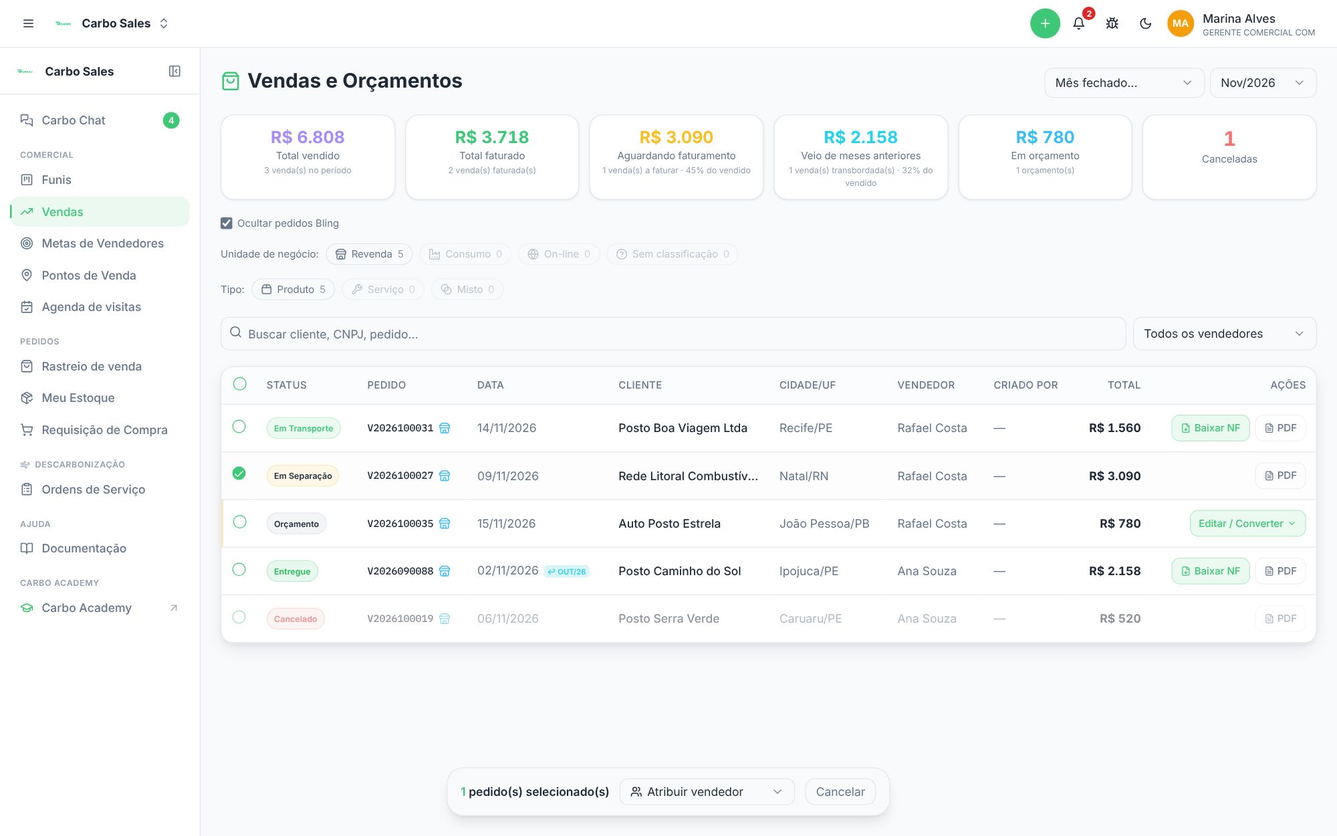
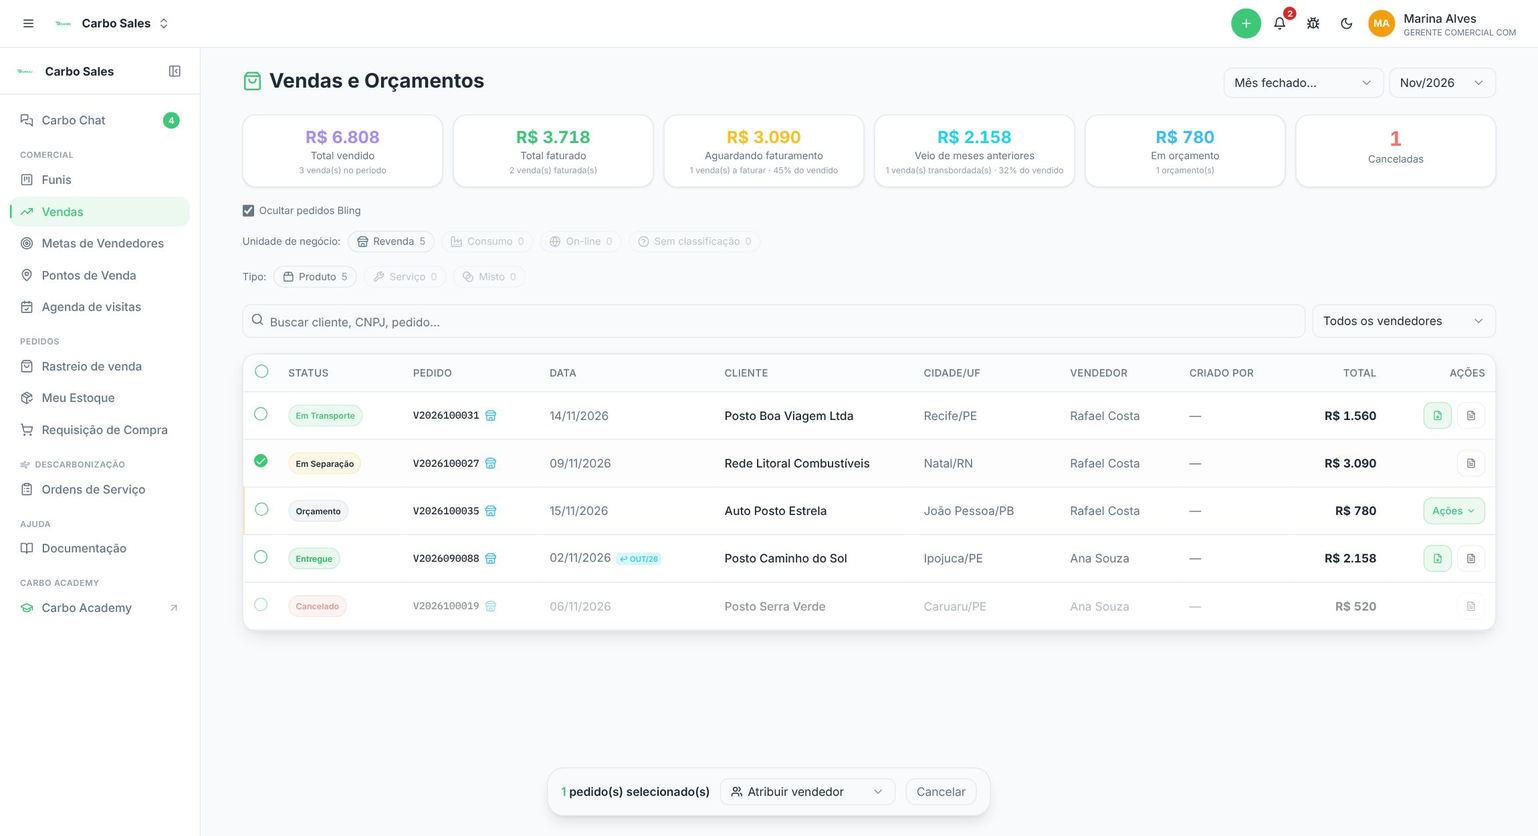
Sales no notebook: corte em 1800 px (1920 com escala 125% = 1536) (#932)
* Sales: layout de colunas separadas só a partir de 1800 px

Notebook de 1920 com escala de 125% (padrão do Windows) mede 1536 px no
navegador e caía no layout largo (2xl) — a tabela seguia rolando de lado.

Claude-Session: https://claude.ai/code/session_014dECjKfnWPqtYYc6bX6aZY

* Documentação do Sales: prints no layout do notebook

Claude-Session: https://claude.ai/code/session_014dECjKfnWPqtYYc6bX6aZY

---------

diff --git a/apps/crm/src/pages/Vendas.tsx b/apps/crm/src/pages/Vendas.tsx
@@ -712,7 +712,7 @@ export default function Vendas() {
                                 <DropdownMenu>
                                   <DropdownMenuTrigger asChild>
                                     <button className="h-8 px-2.5 inline-flex items-center gap-1 rounded-md text-xs font-medium whitespace-nowrap bg-carbo-green/10 text-carbo-green hover:bg-carbo-green/20 border border-carbo-green/30 transition-colors" title="Editar ou converter o orçamento">
-                                      <span className="hidden 2xl:inline">Editar / Converter</span><span className="2xl:hidden" data-curto>Ações</span>
+                                      <span className="hidden min-[2100px]:inline">Editar / Converter</span><span className="min-[2100px]:hidden" data-curto>Ações</span>
                                       <ChevronDown className="h-3 w-3" />
                                     </button>
                                   </DropdownMenuTrigger>
@@ -743,7 +743,7 @@ export default function Vendas() {
                                       title={`Baixar NF ${notaDaVenda(venda, "venda").numero ?? notaDaVenda(venda, "venda").id}`}
                                     >
                                       {nfLoadingId === venda.id + "venda" ? <Loader2 className="h-3 w-3 animate-spin" /> : <FileDown className="h-3 w-3" />}
-                                      <span className="hidden 2xl:inline">Baixar NF</span>
+                                      <span className="hidden min-[2100px]:inline">Baixar NF</span>
                                     </button>
                                   )}
                                   {/* ⚠ Botão PRÓPRIO, âmbar, e não um segundo "Baixar NF".
@@ -758,12 +758,12 @@ export default function Vendas() {
                                       title={`Baixar NF de bonificação ${notaDaVenda(venda, "bonificacao").numero ?? notaDaVenda(venda, "bonificacao").id}`}
                                     >
                                       {nfLoadingId === venda.id + "bonificacao" ? <Loader2 className="h-3 w-3 animate-spin" /> : <Gift className="h-3 w-3" />}
-                                      <span className="hidden 2xl:inline">NF bonif.</span>
+                                      <span className="hidden min-[2100px]:inline">NF bonif.</span>
                                     </button>
                                   )}
                                   <button onClick={() => baixarPdf(venda.id)} title="Baixar orçamento (PDF)"
                                     className="h-8 px-2.5 inline-flex items-center gap-1 rounded-md text-xs font-medium whitespace-nowrap border border-border/60 text-muted-foreground hover:bg-muted transition-colors">
-                                    <FileText className="h-3 w-3" /><span className="hidden 2xl:inline">PDF</span>
+                                    <FileText className="h-3 w-3" /><span className="hidden min-[2100px]:inline">PDF</span>
                                   </button>
                                 </>
                               )}
@@ -1292,7 +1292,7 @@ export default function Vendas() {
           </div>
           <CarboCard padding="none" className="hidden md:block">
             <div className="overflow-x-auto">
-              <table className="w-full min-w-[820px] 2xl:min-w-[960px] text-sm">
+              <table className="w-full min-w-[820px] min-[1800px]:min-w-[960px] text-sm">
                 <thead>
                   <tr className="border-b bg-muted/30">
                     {isHead && (
@@ -1306,14 +1306,14 @@ export default function Vendas() {
                     <th className="text-left p-3 font-medium text-xs text-muted-foreground uppercase tracking-wide">Pedido</th>
                     <th className="text-left p-3 font-medium text-xs text-muted-foreground uppercase tracking-wide">Data</th>
                     <th className="text-left p-3 font-medium text-xs text-muted-foreground uppercase tracking-wide">Cliente</th>
-                    <th className="hidden 2xl:table-cell text-left p-3 font-medium text-xs text-muted-foreground uppercase tracking-wide">Cidade/UF</th>
+                    <th className="hidden min-[1800px]:table-cell text-left p-3 font-medium text-xs text-muted-foreground uppercase tracking-wide">Cidade/UF</th>
                     {/* ⚠ "Vendedor" e "Criado por" são perguntas DIFERENTES e
                         andam juntas: a primeira é de quem é a venda (e a
                         comissão), a segunda é quem digitou. Elas coincidem na
                         maioria das linhas — e é justamente por isso que a
                         divergência precisa aparecer, em vez de ser presumida. */}
                     {isHead && <th className="text-left p-3 font-medium text-xs text-muted-foreground uppercase tracking-wide">Vendedor</th>}
-                    {isHead && <th className="hidden 2xl:table-cell text-left p-3 font-medium text-xs text-muted-foreground uppercase tracking-wide whitespace-nowrap">Criado por</th>}
+                    {isHead && <th className="hidden min-[1800px]:table-cell text-left p-3 font-medium text-xs text-muted-foreground uppercase tracking-wide whitespace-nowrap">Criado por</th>}
                     <th className="text-right p-3 font-medium text-xs text-muted-foreground uppercase tracking-wide">Total</th>
                     <th className="text-right p-3 font-medium text-xs text-muted-foreground uppercase tracking-wide whitespace-nowrap">Ações</th>
                   </tr>
@@ -1393,26 +1393,26 @@ export default function Vendas() {
                               )
                             )}
                           </td>
-                          {/* Abaixo de 2xl (notebook com a barra lateral aberta) a cidade
+                          {/* Abaixo de 1800 px (notebook, inclusive 1920 com escala de 125% = 1536) a cidade
                               mora embaixo do cliente e "Criado por" embaixo do vendedor:
                               com as colunas separadas a tabela não cabia e cortava o Total. */}
                           <td className="p-3 max-w-[180px]">
                             <div className="font-medium truncate">{venda.customer_name}</div>
-                            <div className="2xl:hidden text-xs text-muted-foreground truncate">{[venda.delivery_city, venda.delivery_state].filter(Boolean).join("/") || "—"}</div>
+                            <div className="min-[1800px]:hidden text-xs text-muted-foreground truncate">{[venda.delivery_city, venda.delivery_state].filter(Boolean).join("/") || "—"}</div>
                           </td>
-                          <td className="hidden 2xl:table-cell p-3 text-muted-foreground whitespace-nowrap">{[venda.delivery_city, venda.delivery_state].filter(Boolean).join("/") || "—"}</td>
+                          <td className="hidden min-[1800px]:table-cell p-3 text-muted-foreground max-w-[170px] truncate">{[venda.delivery_city, venda.delivery_state].filter(Boolean).join("/") || "—"}</td>
                           {isHead && (
                             <td className="p-3 text-muted-foreground">
                               <span>{(venda.vendedor_id && nomeById[venda.vendedor_id]) || venda.vendedor_name || "—"}</span>
                               {criadorDiferente && (
-                                <div className="2xl:hidden text-xs font-medium text-amber-500" title="Lançada por uma pessoa e atribuída a outra">
+                                <div className="min-[1800px]:hidden text-xs font-medium text-amber-500" title="Lançada por uma pessoa e atribuída a outra">
                                   por {criadorNome}
                                 </div>
                               )}
                             </td>
                           )}
                           {isHead && (
-                            <td className="hidden 2xl:table-cell p-3 text-muted-foreground">
+                            <td className="hidden min-[1800px]:table-cell p-3 text-muted-foreground">
                               {criadorNome ? (
                                 <span className={criadorDiferente ? "font-medium text-amber-500" : undefined}
                                   title={criadorDiferente

diff --git a/apps/crm/src/pages/Pdvs.tsx b/apps/crm/src/pages/Pdvs.tsx
@@ -139,12 +139,13 @@ function SortTh({ col, label, sort, onSort, align = "left", className = "" }: {
   );
 }
 
-/** Coluna que só existe na tela larga (2xl). No notebook, com a barra lateral
+/** Coluna que só existe na tela larga (≥ 1800 px; 1920 com escala de 125%
+ *  do Windows é 1536 e NÃO é larga). No notebook, com a barra lateral
  *  aberta, as onze colunas não cabiam e Comprado/Ações ficavam fora da tela:
  *  o código e o CNPJ descem para baixo do nome, o status vira etiqueta ao lado
  *  dele (só quando não é Ativo) e pedidos/última compra descem para baixo do
  *  valor comprado. */
-const SO_LARGA = "hidden 2xl:table-cell";
+const SO_LARGA = "hidden min-[1800px]:table-cell";
 
 /** Quantos produtos o PDV declara vender — é por isso que se ordena o Mix. */
 const mixVendidos = (p: PdvRow) => PRODUTOS.filter((k) => p.mix?.[k]?.oferece === "sim").length;
@@ -463,12 +464,12 @@ export default function Pdvs() {
                               Microdistribuidor
                             </span>
                           )}
-                          <span className="2xl:hidden block truncate font-mono text-[11px] text-muted-foreground">
+                          <span className="min-[1800px]:hidden block truncate font-mono text-[11px] text-muted-foreground">
                             {p.pdv_code}{" · "}
                             {p.sem_documento ? <span className="text-amber-500">sem documento</span> : fmtDoc(p.cnpj)}
                           </span>
                           {p.status !== "active" && (
-                            <span className="2xl:hidden mt-0.5 inline-block">
+                            <span className="min-[1800px]:hidden mt-0.5 inline-block">
                               <CarboBadge variant={PDV_STATUS_VARIANT[p.status]} size="sm">{PDV_STATUS_LABEL[p.status]}</CarboBadge>
                             </span>
                           )}
@@ -483,7 +484,7 @@ export default function Pdvs() {
                           `title`: endereço completo tem 60+ caracteres e, solto
                           numa célula, empurraria Mix e Comprado para fora da
                           tela — que é o oposto de mostrar mais informação. */}
-                      <td className="px-3 py-2 text-xs max-w-[180px] 2xl:max-w-[220px]">
+                      <td className="px-3 py-2 text-xs max-w-[180px] min-[1800px]:max-w-[220px]">
                         <p className="truncate" title={[p.address_city, p.address_state].filter(Boolean).join("/") || undefined}>
                           {[p.address_city, p.address_state].filter(Boolean).join("/") || "—"}
                         </p>
@@ -509,7 +510,7 @@ export default function Pdvs() {
                       <td className="px-3 py-2 text-right tabular-nums font-medium whitespace-nowrap">
                         {p.total_comprado ? brl(p.total_comprado) : "—"}
                         {p.pedidos > 0 && (
-                          <span className="2xl:hidden block text-[11px] font-normal text-muted-foreground">
+                          <span className="min-[1800px]:hidden block text-[11px] font-normal text-muted-foreground">
                             {p.pedidos} {p.pedidos === 1 ? "pedido" : "pedidos"} · {fmtData(p.ultima_compra)}
                           </span>
                         )}

diff --git a/apps/crm/src/components/os/OSLista.tsx b/apps/crm/src/components/os/OSLista.tsx
@@ -49,7 +49,7 @@ function TipoSelo({ o }: { o: OSView }) {
 function Progresso({ o, className }: { o: OSView; className?: string }) {
   const pct = o.vagas > 0 ? Math.min(100, (o.vagasExecutadas / o.vagas) * 100) : 0;
   return (
-    <div className={cn("flex flex-wrap items-center gap-x-2.5 gap-y-0.5 2xl:flex-nowrap", className)}>
+    <div className={cn("flex flex-wrap items-center gap-x-2.5 gap-y-0.5 min-[1800px]:flex-nowrap", className)}>
       <span className="w-11 shrink-0 text-sm tabular-nums">
         <span className="font-medium text-foreground">{o.vagasExecutadas}</span>
         <span className="text-muted-foreground">/{o.vagas}</span>
@@ -57,7 +57,7 @@ function Progresso({ o, className }: { o: OSView; className?: string }) {
       <div className="h-1 w-16 shrink-0 overflow-hidden rounded-full bg-muted">
         <div className={cn("h-full rounded-full", stageMeta(o.stage).bar)} style={{ width: `${pct}%` }} />
       </div>
-      {o.portes && <span className="basis-full truncate text-xs text-muted-foreground 2xl:basis-auto">{o.portes}</span>}
+      {o.portes && <span className="basis-full truncate text-xs text-muted-foreground min-[1800px]:basis-auto">{o.portes}</span>}
     </div>
   );
 }
@@ -149,10 +149,10 @@ export function OSLista({ items }: { items: OSView[] }) {
 
       {/* Tela larga */}
       <div className="hidden overflow-x-auto md:block">
-        {/* Abaixo de 2xl (notebook com a barra lateral aberta) as células
+        {/* Abaixo de 1800 px (notebook; 1920 com escala de 125% é 1536) as células
             apertam e os portes descem para baixo da barra — senão a Etapa
             ficava fora da tela. */}
-        <table className="w-full text-sm [&_td]:px-3 [&_th]:px-3 2xl:[&_td]:px-4 2xl:[&_th]:px-4">
+        <table className="w-full text-sm [&_td]:px-3 [&_th]:px-3 min-[1800px]:[&_td]:px-4 min-[1800px]:[&_th]:px-4">
           <thead className="border-b bg-muted/40">
             <tr>
               <Cabecalho rotulo="OS" ordem={ordem} onOrdenar={ordenar} />
@@ -174,7 +174,7 @@ export function OSLista({ items }: { items: OSView[] }) {
                   {o.veiculo && <p className="mt-0.5 truncate text-xs text-muted-foreground">{o.veiculo}</p>}
                 </td>
                 <td className="px-4 py-3"><TipoSelo o={o} /></td>
-                <td className="px-4 py-3"><Progresso o={o} className="min-w-[8rem] 2xl:min-w-[12rem]" /></td>
+                <td className="px-4 py-3"><Progresso o={o} className="min-w-[8rem] min-[1800px]:min-w-[12rem]" /></td>
                 <td className="px-4 py-3"><Data o={o} hoje={hoje} /></td>
                 <td className="whitespace-nowrap px-4 py-3">
                   {o.pedido

diff --git a/apps/ops/src/components/os/OSLista.tsx b/apps/ops/src/components/os/OSLista.tsx
@@ -49,7 +49,7 @@ function TipoSelo({ o }: { o: OSView }) {
 function Progresso({ o, className }: { o: OSView; className?: string }) {
   const pct = o.vagas > 0 ? Math.min(100, (o.vagasExecutadas / o.vagas) * 100) : 0;
   return (
-    <div className={cn("flex flex-wrap items-center gap-x-2.5 gap-y-0.5 2xl:flex-nowrap", className)}>
+    <div className={cn("flex flex-wrap items-center gap-x-2.5 gap-y-0.5 min-[1800px]:flex-nowrap", className)}>
       <span className="w-11 shrink-0 text-sm tabular-nums">
         <span className="font-medium text-foreground">{o.vagasExecutadas}</span>
         <span className="text-muted-foreground">/{o.vagas}</span>
@@ -57,7 +57,7 @@ function Progresso({ o, className }: { o: OSView; className?: string }) {
       <div className="h-1 w-16 shrink-0 overflow-hidden rounded-full bg-muted">
         <div className={cn("h-full rounded-full", stageMeta(o.stage).bar)} style={{ width: `${pct}%` }} />
       </div>
-      {o.portes && <span className="basis-full truncate text-xs text-muted-foreground 2xl:basis-auto">{o.portes}</span>}
+      {o.portes && <span className="basis-full truncate text-xs text-muted-foreground min-[1800px]:basis-auto">{o.portes}</span>}
     </div>
   );
 }
@@ -149,10 +149,10 @@ export function OSLista({ items }: { items: OSView[] }) {
 
       {/* Tela larga */}
       <div className="hidden overflow-x-auto md:block">
-        {/* Abaixo de 2xl (notebook com a barra lateral aberta) as células
+        {/* Abaixo de 1800 px (notebook; 1920 com escala de 125% é 1536) as células
             apertam e os portes descem para baixo da barra — senão a Etapa
             ficava fora da tela. */}
-        <table className="w-full text-sm [&_td]:px-3 [&_th]:px-3 2xl:[&_td]:px-4 2xl:[&_th]:px-4">
+        <table className="w-full text-sm [&_td]:px-3 [&_th]:px-3 min-[1800px]:[&_td]:px-4 min-[1800px]:[&_th]:px-4">
           <thead className="border-b bg-muted/40">
             <tr>
               <Cabecalho rotulo="OS" ordem={ordem} onOrdenar={ordenar} />
@@ -174,7 +174,7 @@ export function OSLista({ items }: { items: OSView[] }) {
                   {o.veiculo && <p className="mt-0.5 truncate text-xs text-muted-foreground">{o.veiculo}</p>}
                 </td>
                 <td className="px-4 py-3"><TipoSelo o={o} /></td>
-                <td className="px-4 py-3"><Progresso o={o} className="min-w-[8rem] 2xl:min-w-[12rem]" /></td>
+                <td className="px-4 py-3"><Progresso o={o} className="min-w-[8rem] min-[1800px]:min-w-[12rem]" /></td>
                 <td className="px-4 py-3"><Data o={o} hoje={hoje} /></td>
                 <td className="whitespace-nowrap px-4 py-3">
                   {o.pedido

diff --git a/apps/crm/src/docs/secoes/base.ts b/apps/crm/src/docs/secoes/base.ts
@@ -242,8 +242,8 @@ export const SECOES_BASE: Secao[] = [
           { n: 3, titulo: "Buscar", texto: "Procura pelo nome do cliente, cidade, CNPJ/CPF, IE, telefone, CEP, e-mail ou número do pedido, em todo o histórico (ignora o período)." },
           { n: 4, titulo: "Status", texto: "Orçamento, Cancelado ou a etapa do pedido (Nova Venda, Em Separação, Em Transporte, Entregue…)." },
           { n: 5, titulo: "Filtros", texto: "“Ocultar pedidos Bling” esconde os pedidos importados do Bling (o número ao lado diz quantos e quanto somam — é o que explica um total diferente de outra tela). Unidade de negócio: revenda, consumo, on-line ou sem classificação. Tipo: produto (CarboZé), serviço (CarboVAPT) ou misto." },
-          { n: 6, titulo: "Editar / Converter", texto: "Em orçamentos: editar, converter em venda ou baixar o PDF." },
-          { n: 7, titulo: "Baixar NF", texto: "Abre a nota fiscal (PDF, ou XML se o PDF ainda não chegou). “PDF” baixa a segunda via do pedido." },
+          { n: 6, titulo: "Ações (orçamento)", texto: "Em orçamentos: editar, converter em venda ou baixar o PDF. Em tela grande o botão se chama “Editar / Converter”." },
+          { n: 7, titulo: "Baixar NF", texto: "O botão verde abre a nota fiscal (PDF, ou XML se o PDF ainda não chegou); o cinza baixa a segunda via do pedido em PDF. No notebook eles aparecem só com o ícone — passe o mouse para ver o nome." },
           { n: 8, titulo: "Linha", texto: "Clique para abrir os detalhes da venda." },
         ],
       },
@@ -269,7 +269,7 @@ export const SECOES_BASE: Secao[] = [
           { n: 2, titulo: "Seleção", texto: "Marque as vendas (ou todas) para agir em massa." },
           { n: 3, titulo: "Atribuir vendedor", texto: "Troca o vendedor das vendas selecionadas de uma vez (e, com isso, de quem é a comissão)." },
           { n: 4, titulo: "Vendedor", texto: "De quem é a venda." },
-          { n: 5, titulo: "Criado por", texto: "Quem lançou, quando foi outra pessoa (ex.: o gestor lançando em nome do vendedor)." },
+          { n: 5, titulo: "Criado por", texto: "Quem lançou, quando foi outra pessoa (ex.: o gestor lançando em nome do vendedor). No notebook ele aparece embaixo do vendedor, em laranja, só quando é outra pessoa." },
         ],
       },
       {

diff --git a/apps/crm/src/docs/marcadores.ts b/apps/crm/src/docs/marcadores.ts
@@ -312,30 +312,30 @@ export const MARCADORES: Record<string, Record<number, Caixa>> = {
     1: { x: 78.13, y: 9, w: 20.38, h: 4 },
     2: { x: 16.5, y: 15.22, w: 82, h: 11.33 },
     3: { x: 16.5, y: 42.11, w: 82, h: 4.44 },
-    4: { x: 16.63, y: 48.89, w: 10.06, h: 4.5 },
+    4: { x: 16.63, y: 48.89, w: 13.21, h: 4.5 },
     5: { x: 16.5, y: 32.33, w: 82, h: 2.89 },
-    6: { x: 88.97, y: 67.44, w: 8.71, h: 3.56 },
-    7: { x: 87.65, y: 54.78, w: 5.83, h: 3.56 },
-    8: { x: 16.63, y: 59.72, w: 81.81, h: 6.33 },
+    6: { x: 93.06, y: 68.56, w: 4.63, h: 3.56 },
+    7: { x: 93.06, y: 55, w: 2.13, h: 3.56 },
+    8: { x: 16.63, y: 60.17, w: 81.81, h: 6.78 },
   },
   "vendas-detalhe": {
-    1: { x: 2.84, y: 17.16, w: 94.32, h: 10.59 },
-    2: { x: 2.84, y: 30.88, w: 46.56, h: 7.06 },
-    3: { x: 2.84, y: 41.08, w: 5.24, h: 2.94 },
-    4: { x: 2.84, y: 47.35, w: 94.32, h: 3.14 },
+    1: { x: 2.84, y: 17.8, w: 94.32, h: 10.51 },
+    2: { x: 2.84, y: 31.42, w: 46.56, h: 7 },
+    3: { x: 2.84, y: 41.54, w: 5.24, h: 2.92 },
+    4: { x: 2.84, y: 47.76, w: 94.32, h: 3.11 },
   },
   "vendas-gestor": {
-    1: { x: 84.75, y: 37.9, w: 13.75, h: 4 },
-    2: { x: 17.41, y: 45.1, w: 1, h: 1.6 },
-    3: { x: 33.4, y: 91.8, w: 33.19, h: 5.8 },
-    4: { x: 66.38, y: 43.9, w: 7.2, h: 4.45 },
-    5: { x: 73.57, y: 43.9, w: 6.76, h: 4.45 },
+    1: { x: 85.33, y: 36.4, w: 11.96, h: 4 },
+    2: { x: 16.55, y: 43.6, w: 0.87, h: 1.6 },
+    3: { x: 35.57, y: 91.8, w: 28.86, h: 5.8 },
+    4: { x: 68.93, y: 42.4, w: 7.75, h: 4.45 },
+    5: { x: 76.68, y: 42.4, w: 7.28, h: 4.45 },
   },
   "vendas-gestor-detalhe": {
-    1: { x: 2.84, y: 91.87, w: 9.55, h: 5.66 },
-    2: { x: 76.18, y: 91.87, w: 10.89, h: 5.66 },
-    3: { x: 87.37, y: 91.87, w: 9.79, h: 5.66 },
-    4: { x: 3.66, y: 79.13, w: 92.67, h: 2.83 },
+    1: { x: 2.84, y: 91.81, w: 9.55, h: 5.7 },
+    2: { x: 76.18, y: 91.81, w: 10.89, h: 5.7 },
+    3: { x: 87.37, y: 91.81, w: 9.79, h: 5.7 },
+    4: { x: 3.66, y: 78.98, w: 92.67, h: 2.85 },
   },
   "vender-endereco": {
     1: { x: 6.28, y: 21.38, w: 28.23, h: 6.43 },

diff --git a/apps/crm/src/docs/secoes/comercial.ts b/apps/crm/src/docs/secoes/comercial.ts
@@ -97,7 +97,7 @@ export const SECOES_COMERCIAL: Secao[] = [
           { n: 4, titulo: "UF", texto: "Mostra só os PDVs de um estado." },
           { n: 5, titulo: "Dono", texto: "Mostra só a carteira de um vendedor." },
           { n: 6, titulo: "Resumo", texto: "Quantos aparecem com os filtros, quantos já compraram, quantos estão sem documento e sem dono." },
-          { n: 7, titulo: "Ordenar", texto: "Clique no nome de qualquer coluna para ordenar; clique de novo para inverter. Pedidos, Comprado e Última começam do maior/mais recente." },
+          { n: 7, titulo: "Ordenar", texto: "Clique no nome de qualquer coluna para ordenar; clique de novo para inverter. Pedidos, Comprado e Última começam do maior/mais recente. No notebook, código e CNPJ aparecem embaixo do nome, e pedidos e última compra embaixo do valor comprado; as colunas separadas (e a ordenação por elas) aparecem só em tela grande." },
           { n: 8, titulo: "Sem documento", texto: "PDV sem CNPJ/CPF. As vendas dele não viram Revenda sozinhas e o histórico de pedidos não aparece. Preencha o documento." },
           { n: 9, titulo: "Mix", texto: "O que o ponto revende: 10ml (sachê), 100ml e 1L. Verde = vende, cinza = não vende, laranja = a confirmar (ninguém conferiu ainda — é onde falta visita). Passe o mouse para ver o preço." },
           { n: 10, titulo: "Microdistribuidor", texto: "Etiqueta do PDV que também é microdistribuidor. Ele continua sendo ponto de venda e contando na base." },

diff --git a/apps/crm/src/pages/Pipelines.tsx b/apps/crm/src/pages/Pipelines.tsx
@@ -564,7 +564,7 @@ export default function Pipelines() {
         ) : (
           // No notebook (xl, barra lateral aberta) o 4º cartão — Pipeline (R$) —
           // é mais largo: com os cinco iguais o valor em reais quebrava em duas linhas.
-          <div className={`${FAIXA_KPI_CELULAR} md:grid md:gap-3 ${MOSTRA_QUENTES_E_TENTATIVAS ? "md:grid-cols-3 xl:grid-cols-[repeat(3,minmax(0,1fr))_minmax(0,1.4fr)_minmax(0,1fr)] 2xl:grid-cols-5" : "md:grid-cols-3"}`}>
+          <div className={`${FAIXA_KPI_CELULAR} md:grid md:gap-3 ${MOSTRA_QUENTES_E_TENTATIVAS ? "md:grid-cols-3 xl:grid-cols-[repeat(3,minmax(0,1fr))_minmax(0,1.4fr)_minmax(0,1fr)] min-[1800px]:grid-cols-5" : "md:grid-cols-3"}`}>
             <CarboKPI title="Total Leads" value={stats?.total || 0} icon={Users} iconColor="blue" loading={!stats} />
             {MOSTRA_QUENTES_E_TENTATIVAS && <CarboKPI title="Quentes" value={stats?.hot || 0} icon={Flame} iconColor="warning" loading={!stats} />}
             <CarboKPI title="Sem Atividade >3d" value={stats?.stale || 0} icon={AlertTriangle} iconColor="warning" loading={!stats} />

diff --git a/CLAUDE.md b/CLAUDE.md
@@ -1615,8 +1615,12 @@ monitor de 1920. Medido no navegador (Supabase falso), app a app.
    "Criado por" sob o vendedor (só quando diverge), código+CNPJ sob o PDV,
    pedidos+última compra sob o valor, status do PDV vira etiqueta (só se não é
    Ativo), portes da OS sob a barra; botões de ação só com ícone (o cartão do
-   celular continua forçando o texto). Em `2xl` (o monitor grande) nada muda.
-   ⚠ Ordenar pelas colunas escondidas só existe no `2xl`.
+   celular continua forçando o texto). A partir de **1800 px** (`min-[1800px]:`)
+   volta o layout de colunas separadas; os rótulos dos botões de Vendas só em 2100.
+   ⚠ **O corte NÃO é `2xl` (1536)**: a 1ª versão usou `2xl` e não resolveu —
+   notebook de 1920 com a escala de 125% do Windows (o padrão) mede **1536 px**
+   no navegador e caía no layout largo. Meça em 1536 também, não só 1280/1366.
+   ⚠ Ordenar pelas colunas escondidas só existe na tela larga.
    ⚠ Texto dentro de `Button`/`CarboButton` (`gap-2`) vai num `<span>` só: dois
    pedaços soltos ganham o `gap` entre si ("Gerar   Orçamento").
    ⚠ Quadros (Funis, Rastreio, OS) rolam de lado POR DESENHO (`QuadroRolavel`)
